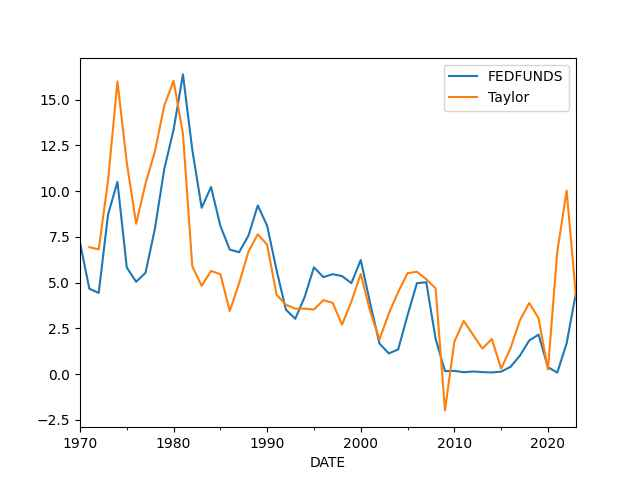
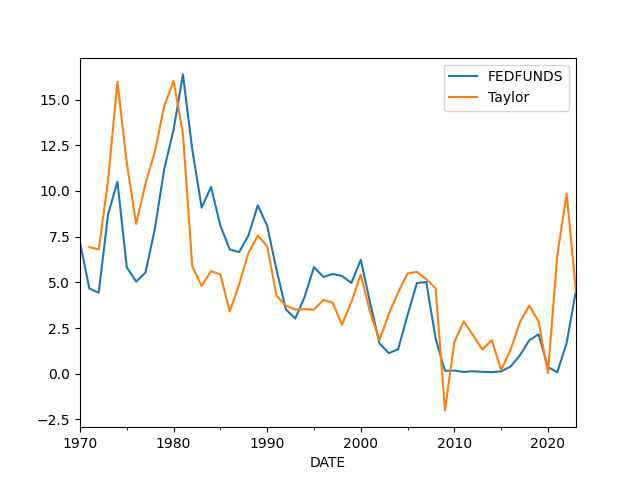
--

diff --git a/en/index.md b/en/index.md
@@ -16,84 +16,110 @@ the outputs of systems like ChatGPT, but also misattributes agency"
 
 ---
 
-Euractiv: "France asks [Azerbaijan] to restore ‘unhindered’ movement on vital corridor"
+Arab News: "A Chinese coast guard ship cut off a Philippine patrol
+vessel carrying journalists in the disputed South China Sea, causing a
+near-collision, an AFP team on board another boat saw"
 
 ---
 
-But of course they do
-
-Al-Monitor: "[2023/03] Israel exports arms to Azerbaijan as tensions
-soar with Armenia"
+Janes: "China, Philippine coastguard vessels trade warnings in near
+collision"
 
 ---
 
-Where is the good ol' genocide victim symphaty when you need it eh?
-Israel gets it, forgiveness in all kinds of world affairs, why not
-Armenia?
-
-Aw darn - they have relations with Russia, that's the problem. In that
-case your victimization counts less.. Israel's matters more because
-they are on the *right side*, the tip of the spear for "Anglo designs"
-in the region. We hyperventilate about theirs, not about Armenia bcz
-they are not US', Britain's bitch.
+H2 View: "Ohmium to provide 52 tonnes of green hydrogen for Spanish
+LNG terminal project, secures $250m in fundraising round"
 
 ---
 
-```python
-u.sm_plot_azearm4(['Armenia','Azerbaijan','Lachin Corridor','Nagarno-Karabakh'])
+Clean fuel tech is a win for both new and existing energy
+companies. Fossil companies can pivot to H2 and utilize their existing
+know-how. Republicans have nothing to fear as oil, gas companies have
+much to gain in this space. Trump started the H2@Scale program while
+in office. Everyone from BP to Total are active in domain.
+
+---
+
+Haha
+
+Harry Truman: "Can’t somebody bring me a one-handed economist?"
+
+---
+
+*Safe House* good spy thriller 
+
+---
+
+"@bps_artish@universeodon.com
+
+.. as it's bin day, the bin wagon rolls around, and its new, and it's
+powered by #hydrogen! And it's got big green stickers all over it and
+it's in the South Derbyshire District Council livery.
+
+So it's mine. I've paid for it through my rates and #SDDC have made
+the kind of decisions I would make if I was sitting there deciding.
+
+It's been a \#Labour council since 2021. I'll be exercising my
+privilege to keep it that way on 4 May.
+
+Local \#council \#elections matter. Don't waste your \#vote"
+
+---
+
+H2 Central: "Governor Ron DeSantis Signs MOU with LowCarbon Hydrogen
+Corporation in South Korea, Company Set to Break Ground on Clean
+Hydrogen Facility in Florida"
+
+---
+
+My focus is the FCEV and H2 production, subsidies, the rest, I dont care.
+
+---
+
+I read the bill guts IRA. Not good.
+
+WSJ: "The House GOP's Debt-Ceiling Win.. The chamber’s bill is now the
+only plan in Washington for avoiding a default"
+
+---
+
+WSJ: "North American Clean Hydrogen Projects Are Booming"
+
+---
+
+Un didnt get what he wanted from Trump. DJT eanted him to disarm, and
+likely reduce US involvement in the region. Un didnt like that.
+
+---
+
+😂 The sister gets in there delivers some punches.. But if we are to
+believe Pompeo acct, NK really does not like China and beligerent
+displays of weaponary helps increase US involvement in the region. It
+is as if Un works for US' interests 🤔
+
+TASS: "'Old man with no future': Kim Jong-un’s sister hits back at US
+leader"
+
+---
+
+GPD QoQ slowdown
+
+```
+2022-10-01    2.574072
+2023-01-01    1.062291
 ```
 
-<img width='340' src='mbl/2023/azearm4.jpg'/> 
+---
+
+Baking with Hillary
+
+[[-]](https://youtu.be/O56_peUsNJY)
 
 ---
 
-It was at the Lachin Corridor
+Who Wants To Be A WARMONGER?! - Mischa Paullin	
 
-Reuters: "Azerbaijan said it had established a checkpoint on the road
-leading to Karabakh, a step it said was essential due to what it cast
-as Armenia's use of the road to transport weapons"
-
----
-
-A lot of ppl in analytics do not seem to have mastered the dark arts
-of incremental processing; Do not bring *da entire* input file in
-memory, keep *da entire* output in memory before writing it to file,
-read piecemeal, write piecemeal, while keeping only the bare minimum,
-bare essentials in RAM. A lot of algorithms can be coded this way.
-
----
-
-"@yogthos@mas.to
-
-I can't wait till people start crafting clever prompts to get these
-things to divulge corporate secrets :)"
-
----
-
-"@yogthos@mas.to
-
-deploying LLMs to production be like"
-
-[[-]](https://media.mas.to/masto-public/media_attachments/files/110/248/459/433/803/260/original/e5d7d728aa68ed27.png)
-
----
-
-"@QasimRashid@mastodon.social
-
-A quick history lesson. From 1940-1980:
-
-•Wealthiest paid 70-94% marginal tax
-
-•0 of them went broke from taxation
-
-•0 of them left USA
-
-•All remained exceedingly wealthy
-
-•Manufacturing boomed
-
-•The middle class was 62% of US economy (It's now 40% post 'trickle
- down scamenomics)"
+[[-]](https://youtu.be/NRASg9gbfeE)
 
 ---
 

diff --git a/en/mbl/2023/week17.md b/en/mbl/2023/week17.md
@@ -1,5 +1,87 @@
 # Week 17
 
+
+Euractiv: "France asks [Azerbaijan] to restore ‘unhindered’ movement on vital corridor"
+
+---
+
+But of course they do
+
+Al-Monitor: "[2023/03] Israel exports arms to Azerbaijan as tensions
+soar with Armenia"
+
+---
+
+Where is the good ol' genocide victim symphaty when you need it eh?
+Israel gets it, forgiveness in all kinds of world affairs, why not
+Armenia?
+
+Aw darn - they have relations with Russia, that's the problem. In that
+case your victimization counts less.. Israel's matters more because
+they are on the *right side*, the tip of the spear for "Anglo designs"
+in the region. We hyperventilate about theirs, not about Armenia bcz
+they are not US', Britain's bitch.
+
+---
+
+```python
+u.sm_plot_azearm4(['Armenia','Azerbaijan','Lachin Corridor','Nagarno-Karabakh'])
+```
+
+<img width='340' src='mbl/2023/azearm4.jpg'/> 
+
+---
+
+It was at the Lachin Corridor
+
+Reuters: "Azerbaijan said it had established a checkpoint on the road
+leading to Karabakh, a step it said was essential due to what it cast
+as Armenia's use of the road to transport weapons"
+
+---
+
+A lot of ppl in analytics do not seem to have mastered the dark arts
+of incremental processing; Do not bring *da entire* input file in
+memory, keep *da entire* output in memory before writing it to file,
+read piecemeal, write piecemeal, while keeping only the bare minimum,
+bare essentials in RAM. A lot of algorithms can be coded this way.
+
+---
+
+"@yogthos@mas.to
+
+I can't wait till people start crafting clever prompts to get these
+things to divulge corporate secrets :)"
+
+---
+
+"@yogthos@mas.to
+
+deploying LLMs to production be like"
+
+[[-]](https://media.mas.to/masto-public/media_attachments/files/110/248/459/433/803/260/original/e5d7d728aa68ed27.png)
+
+---
+
+"@QasimRashid@mastodon.social
+
+A quick history lesson. From 1940-1980:
+
+•Wealthiest paid 70-94% marginal tax
+
+•0 of them went broke from taxation
+
+•0 of them left USA
+
+•All remained exceedingly wealthy
+
+•Manufacturing boomed
+
+•The middle class was 62% of US economy (It's now 40% post 'trickle
+ down scamenomics)"
+
+---
+
 "A new dawn for hydrogen mobility in Europe.. With the EU’s commitment
 to hydrogen stations every 200km on major roads, the industry now sees
 a positive sign to push forward with the development of a hydrogen

diff --git a/en/2021/01/stats.md b/en/2021/01/stats.md
@@ -23,11 +23,11 @@ print (df['growann'].tail(5))
 
 ```text
 DATE
-2021-10-01    6.957257
 2022-01-01   -1.631278
 2022-04-01   -0.577282
 2022-07-01    3.243338
 2022-10-01    2.574072
+2023-01-01    1.062291
 Name: growann, dtype: float64
 ```
 
@@ -67,12 +67,12 @@ plt.savefig('cycle.png')
 ```text
               gdpyoy
 DATE                
-2021-07-01  4.955654
 2021-10-01  5.717100
 2022-01-01  3.683679
 2022-04-01  1.796042
 2022-07-01  1.942138
 2022-10-01  0.881278
+2023-01-01  1.564890
                  inf
 DATE                
 2022-10-01  7.745427
@@ -102,10 +102,10 @@ plt.savefig('taylor.jpg',quality=40)
 
 ```text
 DATE
-2020-01-01     0.245628
-2021-01-01     6.687927
-2022-01-01    10.028728
-2023-01-01     4.208603
+2020-01-01    0.034316
+2021-01-01    6.473081
+2022-01-01    9.862776
+2023-01-01    4.475716
 Freq: AS-JAN, Name: Taylor, dtype: float64
 ```
 
